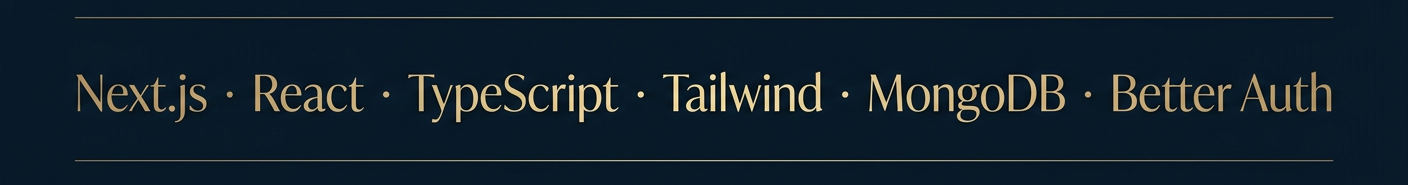
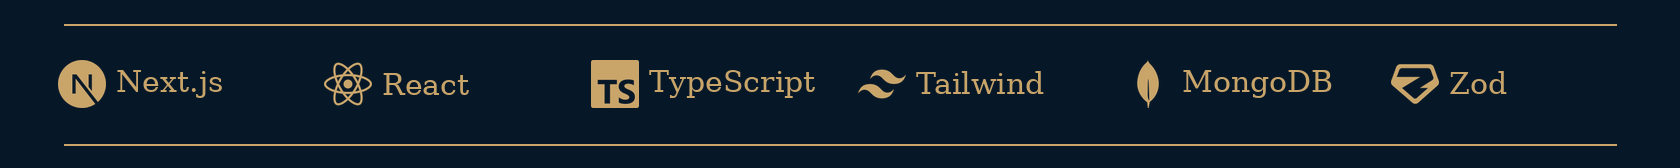
docs(readme): document project stack, architecture and brand 📖 📝
- Document the project stack, architecture and storefront features.
- Add the README, about page copy and brand banner.

Changed region(s): [[0.0312, 0.3571, 0.9688, 0.6548], [0.0312, 0.0893, 0.9688, 0.1786], [0.0312, 0.8333, 0.9688, 0.8929]]

diff --git a/README.md b/README.md
@@ -1,0 +1,140 @@
+<p align="center">
+  <img src="public/og.jpg" alt="Malli Kids — children's atelier" width="100%" />
+</p>
+
+<p align="center">
+  <img src="public/brand/logo.png" alt="Malli Kids" height="68" />
+</p>
+
+<h1 align="center">Malli Kids</h1>
+
+<p align="center">
+  Children’s atelier<br />
+  <em>Storefront · Account · Admin</em>
+</p>
+
+<p align="center">
+  <img src="public/brand/stack.png" alt="Next.js, React, TypeScript, Tailwind, MongoDB, Zod" width="100%" />
+</p>
+
+<p align="center">
+  <a href="https://nextjs.org"><img src="https://img.shields.io/badge/Next.js-16-000000?style=for-the-badge&logo=nextdotjs&logoColor=white" alt="Next.js 16" /></a>
+  <a href="https://react.dev"><img src="https://img.shields.io/badge/React-19-087EA4?style=for-the-badge&logo=react&logoColor=white" alt="React 19" /></a>
+  <a href="https://www.typescriptlang.org"><img src="https://img.shields.io/badge/TypeScript-5.9-3178C6?style=for-the-badge&logo=typescript&logoColor=white" alt="TypeScript" /></a>
+  <a href="https://tailwindcss.com"><img src="https://img.shields.io/badge/Tailwind-v4-38BDF8?style=for-the-badge&logo=tailwindcss&logoColor=white" alt="Tailwind CSS" /></a>
+  <a href="https://www.mongodb.com"><img src="https://img.shields.io/badge/MongoDB-Mongoose-47A248?style=for-the-badge&logo=mongodb&logoColor=white" alt="MongoDB" /></a>
+  <img src="https://img.shields.io/badge/Better%20Auth-1.7-111111?style=for-the-badge" alt="Better Auth" />
+</p>
+
+---
+
+## About
+
+Malli Kids is a working children’s atelier — not a theme, not a demo store. A garment here is meant to become a childhood memory, so the product has to feel like a studio: quiet luxury, Persian-first copy, and operations a real team can run every day.
+
+This repository is that studio on the web. One **Next.js 16** application holds three surfaces:
+
+| Surface | What it does |
+| --- | --- |
+| **Storefront** | Home, catalog, product, journal, virtual try-on, trust pages |
+| **Account** | Sign-in, profile, children, mapped addresses, orders, wishlist, support |
+| **Admin** | Catalog, inventory, orders, Jalali coupons, banners, TipTap magazine, chat, audit |
+
+The default is a Server Component. Client components exist only where the interface must move. Static stories are **SSG**; the catalog is **ISR** so price and stock stay honest; anything behind a session is **SSR**.
+
+Engineering follows the brand: RTL with logical CSS, Persian digits, Jalali **calendar days** (not clock timestamps) for coupon expiry, live inventory locks at checkout, and JSON-LD that matches what the shopper actually sees.
+
+> Malli Kids is not only a children’s clothing label. We stay with the small, unforgettable days.
+
+---
+
+## Features
+
+**Commerce**  
+Filterable shop, product gallery, size chart, complete-the-look, verified reviews, back-in-stock, wishlist, cart, coupons, free-shipping threshold, official Playwright PDF invoices.
+
+**Identity**  
+Better Auth (password, OTP, reset), admin role, rate-limited mail.
+
+**Operations**  
+Sales dashboard, stock matrix, Jalali coupon editor, festive banners, collab intake, live chat + canned replies, review queue, audit log.
+
+**Content & SEO**  
+About, FAQ, shipping, size guide, privacy, terms as SSG. Magazine with TipTap. Metadata, sitemap, robots, Organization / Product / FAQ JSON-LD.
+
+**Try-on**  
+`/tryon` studio with a dedicated API route.
+
+---
+
+## Rendering
+
+| Routes | Strategy |
+| --- | --- |
+| About, terms, privacy, FAQ, shipping, size guide | **SSG** `force-static` |
+| Home, `/shop`, `/product/*` | **ISR** 60s |
+| Collab, contact | **ISR** 5 min |
+| Journal | **ISR** 1 hour |
+| Profile, try-on, reset, `/admin/*` | **SSR** |
+
+Defined in `src/lib/cache.ts`.
+
+---
+
+## Architecture
+
+```
+src/app/(storefront)/   storefront
+src/app/admin/          console
+src/app/api/            auth · invoice · try-on
+src/components/         UI, forms, chat, cart
+src/lib/db/             Mongoose models
+src/lib/shop/           commerce domain
+src/lib/auth/           session & roles
+src/proxy.ts            Next.js 16 proxy
+```
+
+Layers stay separate: persistence in `lib/db`, domain in `lib/shop` and `lib/auth`, presentation in route groups.
+
+---
+
+## Stack
+
+| Layer | Choice |
+| --- | --- |
+| App | Next.js 16 · React 19 · TypeScript 5.9 |
+| Style | Tailwind CSS v4 · Radix · CVA |
+| Data | MongoDB · Mongoose |
+| Forms | React Hook Form · Zod 4 |
+| Auth | Better Auth · Nodemailer |
+| Editorial | TipTap |
+| Dates | react-multi-date-picker (Jalali) |
+| Maps | Leaflet |
+| Invoices | Playwright |
+| Carousel | Embla |
+
+---
+
+## Setup
+
+Node 22+ and MongoDB.
+
+```bash
+npm install
+npm run dev
+```
+
+```bash
+npm run build && npm start
+npm run lint
+npm run format:check
+```
+
+Playwright is used only to print invoice PDFs — there is no e2e suite in this repo.
+
+---
+
+<p align="center">
+  <img src="public/brand/logo.png" alt="" height="40" /><br />
+  <sub>Malli Kids · All rights reserved</sub>
+</p>
